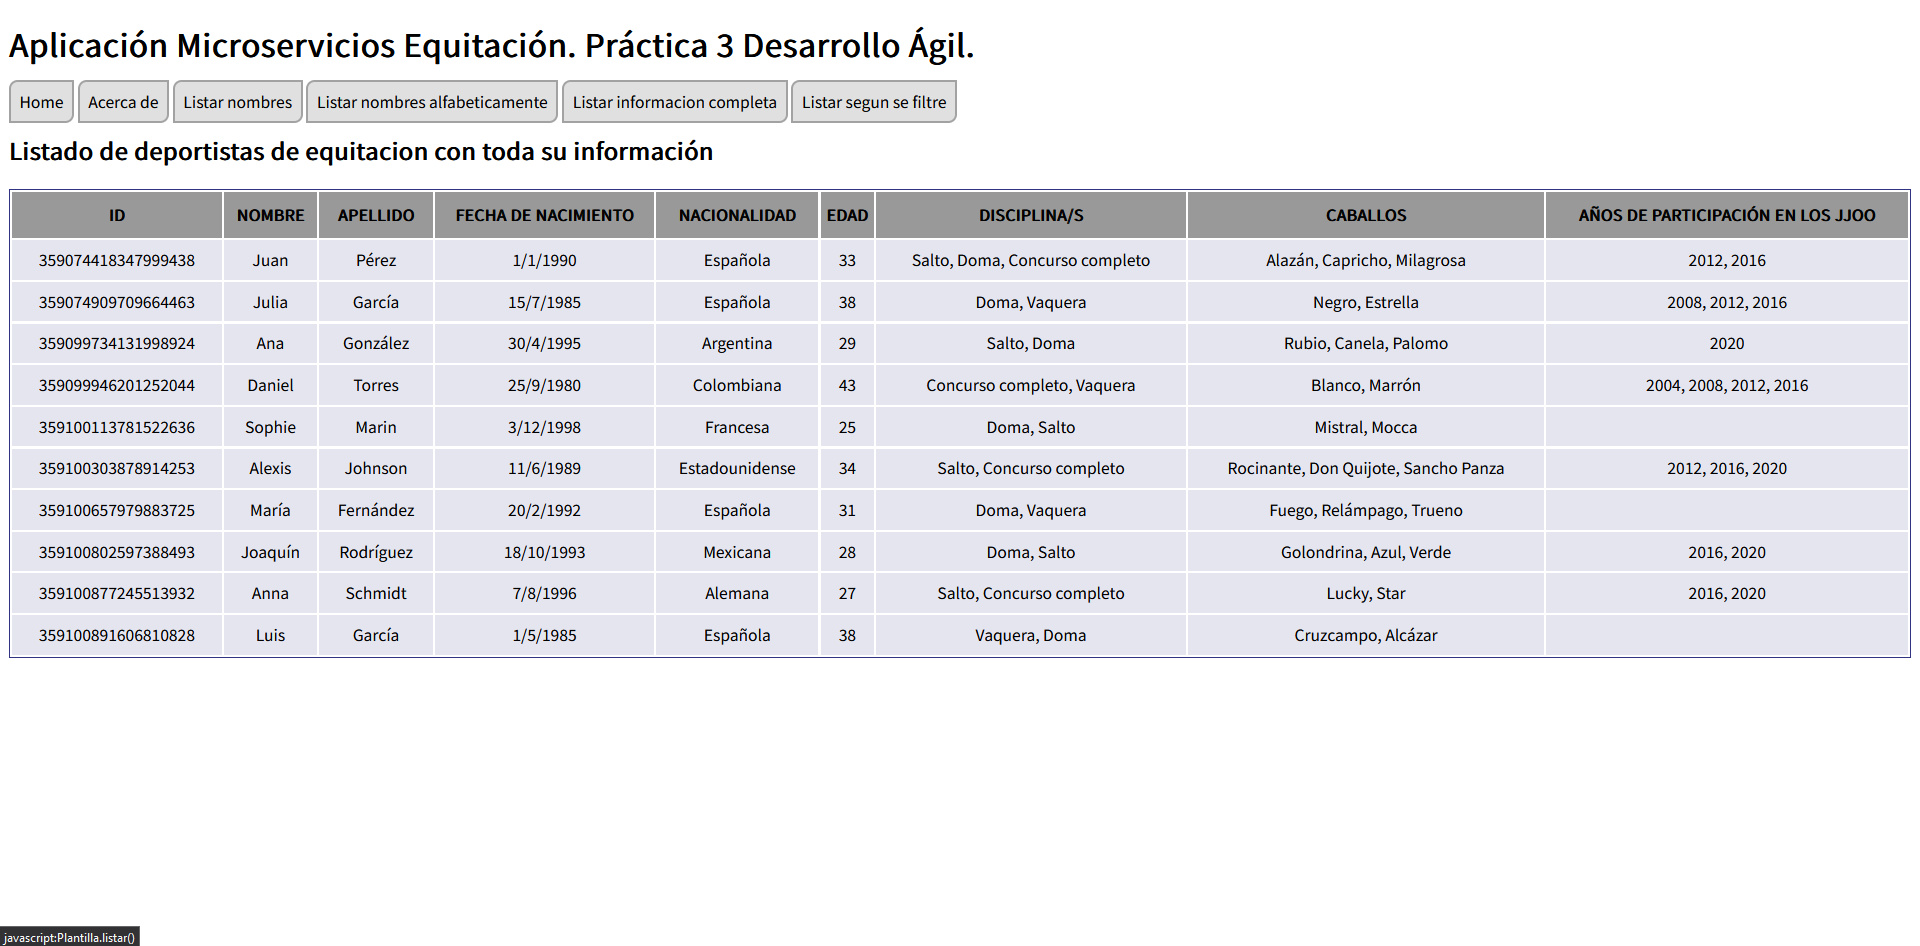
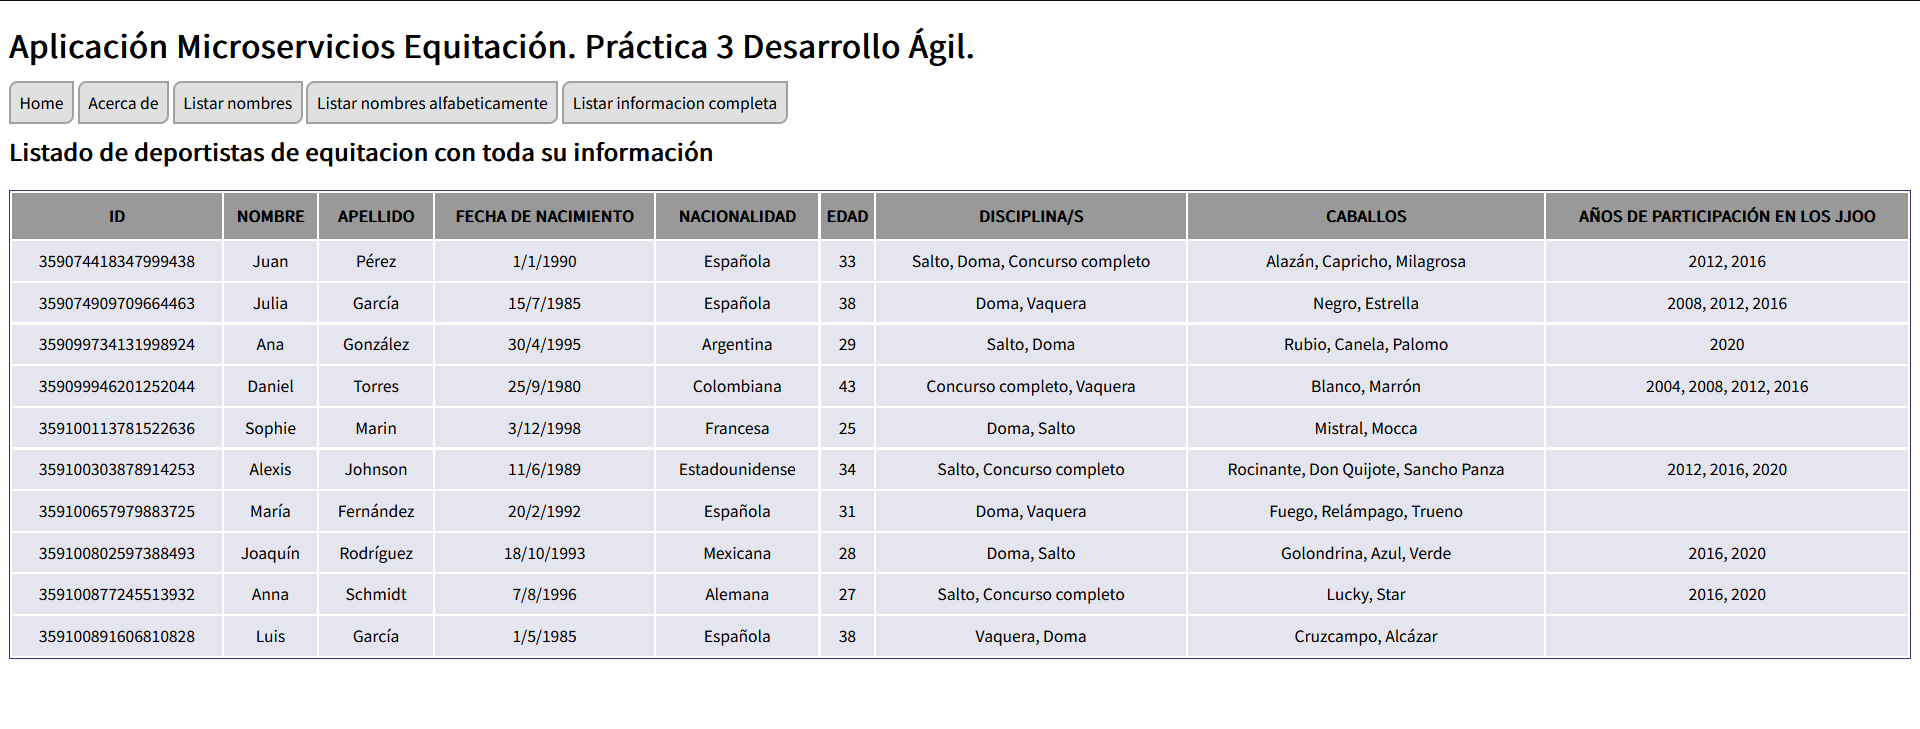
Modificacion README.md HU 04

diff --git a/front-end/static-files/index.html b/front-end/static-files/index.html
@@ -31,9 +31,9 @@
             title="Realiza un listado con los nombres de los deportistas de equitación que hay en la BBDD">Listar nombres</a>
         <a href="javascript:Plantilla.listar_alfabeticamente()" class="opcion-principal"
             title="Realiza un listado con los nombres de los deportistas de equitación que hay en la BBDD por orden alfabetico">Listar nombres alfabeticamente</a>
-	<!--	<a href="javascript:Plantilla.listar()" class="opcion-principal"
+		<a href="javascript:Plantilla.listar()" class="opcion-principal"
             title="Realiza un listado con toda la información de los deportistas de equitación que hay en la BBDD">Listar informacion completa</a>
-    <a href="javascript:Plantilla.mostrar()" class="opcion-principal"
+    <!--<a href="javascript:Plantilla.mostrar()" class="opcion-principal"
             title="Elije tres campos a demas del nombre, para ver que deportistas cumplen los requisitos">Listar segun se filtre</a>-->     
     </nav>
 

diff --git a/README.md b/README.md
@@ -573,3 +573,172 @@ Randomized with seed 25016 (jasmine --random=true --seed=25016)
 
 ### Fin tablero de Trello:
 <img src='./assets/img/Final-H3.png'>
+
+## Primer incremento realizado, para el siguiente incremento se van a realizar las siguientes HU 
+<img src='./assets/img/Inicio2-Trello.png'>
+
+
+## 04. Ver un listado con todos los datos de todos los jugadores/equipos. (Puntuación 0.4)
+### Inicio tablero de Trello:
+<img src='./assets/img/Inicio-H4.png'>
+
+### Para la realización de esta HU se han seguido los siguientes pasos:
+
+1. En el directorio *ms-plantilla*, en el archivo **routes.js** se ha añadido lo siguiente:
+```
+/**
+*Devuelve todas las personas que hay en la BBDD
+*/
+ router.get("/getTodosInfo", async (req, res) => {
+    try {
+        await callbacks.getTodosInfo(req, res)
+    } catch (error) {
+        console.log(error);
+    }
+});
+```
+
+2. En el directorio *ms-plantilla*, en el archivo **callbacks.js** se ha añadido lo siguiente dentro de la funcion *CB_MODEL_SELECTS*:
+```
+/**
+*Método para obtener todos los deportistas con su información de la BBDD.
+*@param {*} req Objeto con los parámetros que se han pasado en la llamada a esta URL 
+*@param {*} res Objeto Response con las respuesta que se va a dar a la petición recibida
+*/
+getTodosInfo: async (req, res) => {
+    try {
+        let deportistas = await client.query(
+            q.Map(
+                q.Paginate(q.Documents(q.Collection(COLLECTION))),
+                q.Lambda("X", q.Get(q.Var("X")))
+            )
+        )
+        console.log( deportistas ) // Para comprobar qué se ha devuelto en proyectos
+        CORS(res)
+            .status(200)
+            .json(deportistas)
+    } catch (error) {
+        CORS(res).status(500).json({ error: error.description })
+    }
+},
+```
+
+3. El siguiente paso ha sido añadir dentro del directorio *front-end* en el archivo **index.html** el boton correcpondiente para poder mostrar toda la información, se ha hecho de la siguiente manera dentro de la barra de navegación de la aplicacion *<nav>*:
+```
+<a href="javascript:Plantilla.listar()" class="opcion-principal"
+    title="Realiza un listado con toda la información de los deportistas de equitación que hay en la BBDD">Listar informacion completa</a>
+```
+
+4. Por ultimo en el *front-end* tambien en el archivo **/static-files/js/ms-plantilla.js** se han implementado las funciones para poder listar toda la información:
+```
+/**
+ *Función principal para responder al evento de elegir la opción "Listar informacion completa".
+*/
+Plantilla.listar = function () {
+    this.recupera(this.imprime);
+}
+```
+```
+/**
+ *Función que recuperar todos los datos de los deportistas de equitaciom  llamando al MS Plantilla.
+ *@param {función} callBackFn Función a la que se llamará una vez recibidos los datos.
+*/
+Plantilla.recupera = async function (callBackFn) {
+    let response = null
+
+    // Intento conectar con el microservicio personas
+    try {
+        const url = Frontend.API_GATEWAY + "/plantilla/getTodosInfo"
+        response = await fetch(url)
+
+    } catch (error) {
+        alert("Error: No se han podido acceder al API Gateway")
+        console.error(error)
+        //throw error
+    }
+
+    // Muestro todas las persoans que se han descargado
+    let vectorPlantilla = null
+    if (response) {
+        vectorPlantilla = await response.json()
+        callBackFn(vectorPlantilla.data)
+    }
+}
+```
+```
+/**
+ *Función para mostrar en pantalla todos los deportistas de equitacion con su info que se han recuperado de la BBDD.
+ *@param {Vector_de_deportistas} vector Vector con los datos de los deportistas a mostrar
+*/
+Plantilla.imprime = function (vector) {
+    //console.log( vector ) // Para comprobar lo que hay en vector
+    let msj = "";
+    msj += Plantilla.cabeceraTable();
+    vector.forEach(e => msj += Plantilla.cuerpoTr(e))
+    msj += Plantilla.pieTable();
+
+    // Borro toda la info de Article y la sustituyo por la que me interesa
+    Frontend.Article.actualizar( "Listado de deportistas de equitacion con toda su información", msj )
+
+}
+```
+
+### Test
+<img src='./assets/img/Test-H4.png'>
+
+Los tests que se han realizado han sido los siguientes:
+
+Comprueba que se devuelve un array con los datos de todos los deportistas en la base de datos:
+```
+it ('Devuelve un array con los datos de todos los deportistas al consultar mediante getTodosInfo', (done) =>{
+    supertest(app)
+        .get('/getTodosInfo')
+        .expect(200)
+        .expect('Content-Type', /json/)
+        .expect(function (res) {
+            const data = res.body.data;
+                assert(Array.isArray(data));
+                assert(data.length > 0);
+            })
+        .end((error) => { error ? done.fail(error) : done(); }
+        );
+});
+```
+Devuelve un vector de tamaño 10 que es el total de colecciones que hay en la BBDD
+```
+it('Devuelve un vector de tamaño 10 al consultar mediante getTodosInfo', (done) => {
+    supertest(app)
+        .get('/getTodosInfo')
+        .expect(200)
+        .expect('Content-Type', /json/)
+        .expect(function (res) {
+            // console.log( res.body ); // Para comprobar qué contiene exactamente res.body
+            assert(res.body.data.length === 10);
+        })
+        .end((error) => { error ? done.fail(error) : done(); }
+        );
+    });
+```
++ Resultado final:
+```
+> ms-plantilla@1.0.0 test
+> jasmine
+
+Randomized with seed 98836
+Started
+Microservicio PLANTILLA ejecutándose en puerto 8002!
+........
+
+
+8 specs, 0 failures
+Finished in 1.21 seconds
+Randomized with seed 98836 (jasmine --random=true --seed=98836)
+```
+
+<img src='./assets/img/Readme-H4.png'>
+
+### El resultado sería el siguiente:
+<img src='./assets/img/HU_04.png'>
+
+### Fin tablero de Trello:
+<img src='./assets/img/Final-H4.png'>
